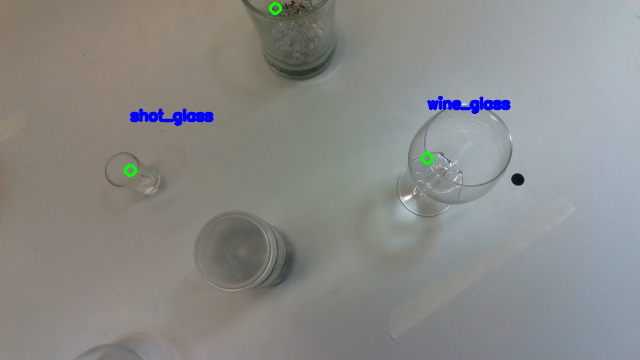
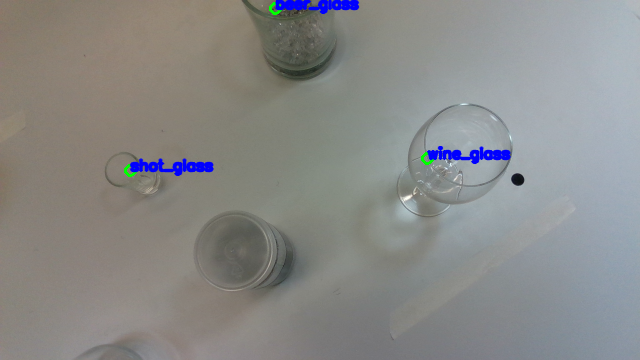
revised thresholding

diff --git a/thresholding.py b/thresholding.py
@@ -63,7 +63,7 @@ def find_rotation(a, b, c):
     return o3d.geometry.get_rotation_matrix_from_axis_angle(rotation_axis * angle)
 
 
-def threshold_blobs(outlier_cloud):
+def threshold_blobs(outlier_cloud, a, b, c, d):
     labels = np.array(outlier_cloud.cluster_dbscan(eps=0.02, min_points=1000, print_progress=True))
 
     # Number of clusters
@@ -99,18 +99,18 @@ def threshold_blobs(outlier_cloud):
     return labels, blob_heights
 
 
-def pixel_coordinates(outlier_cloud, blob_heights, known_heights, known_names):
-    K = np.array([[FX, 0, CX],
+def pixel_coordinates(outlier_cloud, labels, blob_heights, r):
+    k = np.array([[FX, 0, CX],
               [0, FY, CY],
               [0,  0,  1]])
 
-    R_inv = np.linalg.inv(r)
+    r_inv = np.linalg.inv(r)
     coordinates = []
 
     for i, height in blob_heights:
         height = height * 100
         index = -1
-        for j, known_height in enumerate(known_heights):
+        for j, known_height in enumerate(KNOWN_HEIGHTS):
             if height > known_height - 1.3 and height < known_height + 1.3:
                 index = j
                 break
@@ -126,20 +126,20 @@ def pixel_coordinates(outlier_cloud, blob_heights, known_heights, known_names):
         
         # Calculate the centroid of the blob (center of gravity)
         centroid = np.mean(cluster_points, axis=0)
-        original_centroid = np.dot(R_inv, centroid)
+        original_centroid = np.dot(r_inv, centroid)
         
         # Extract the 3D coordinates of the original centroid (X, Y, Z)
-        X, Y, Z = original_centroid
+        x, y, z = original_centroid
         
         # Project the 3D centroid to 2D pixel coordinates using the intrinsic matrix
-        u = (K[0, 0] * X / Z) + K[0, 2]
-        v = (K[1, 1] * Y / Z) + K[1, 2]
+        u = (k[0, 0] * x / z) + k[0, 2]
+        v = (k[1, 1] * y / z) + k[1, 2]
         
         # Store the pixel coordinates (u, v) and the corresponding 3D centroid
         coordinates.append((int(u), int(v)-50, index))
 
     for i, (u, v, index) in enumerate(coordinates):
-        print(f"Blob {i}: Pixel coordinates: ({u}, {v}), Name: {known_names[index]}")
+        print(f"Blob {i}: Pixel coordinates: ({u}, {v}), Name: {KNOWN_NAMES[index]}")
 
     return np.array(coordinates)
 
@@ -148,11 +148,9 @@ def mark_classes(coords, rgb_image, known_names):
     # Iterate through the list of pixel coordinates (u, v) and draw circles on the image
     for i, (u, v, index) in enumerate(coords):
         # Draw a circle on the RGB image at (u, v)
-        # Parameters: image, center_coordinates, radius, color (BGR format), thickness
         cv2.circle(rgb_image, (u, v), radius=5, color=(0, 255, 0), thickness=2)  # Green circles with radius 5
         cv2.putText(rgb_image, known_names[index], (u, v), cv2.FONT_HERSHEY_SIMPLEX, 0.5, (255, 0, 0), 2, cv2.LINE_AA, False)
 
-    # Save the modified image to a file (replace 'output_image_path' with your desired output path)
     cv2.imwrite('work_dirs/modified_rgb_image.png', rgb_image)
 
 
@@ -177,7 +175,7 @@ def show_masks(image, masks, scores, borders=True):
     mask_image = None
     for i, (mask, score) in enumerate(zip(masks, scores)):
         plt.figure(figsize=(10, 10))
-        # plt.imshow(image)
+        plt.imshow(image)
         mask_image = show_mask(mask, plt.gca(), borders=borders)
         if len(scores) > 1:
             plt.title(f"Mask {i+1}, Score: {score:.3f}", fontsize=18)
@@ -217,6 +215,22 @@ def binary_mask_to_rle(binary_mask):
     return rle
 
 
+def binary_mask_to_polygon(binary_mask):
+    # Ensure the mask is uint8 (required for findContours)
+    binary_mask = binary_mask.astype(np.uint8)
+    # Find contours in the mask (external contours only)
+    contours, _ = cv2.findContours(binary_mask, cv2.RETR_EXTERNAL, cv2.CHAIN_APPROX_SIMPLE)
+
+    polygons = []
+    for contour in contours:
+        # Flatten the contour array and convert it to a list of x, y coordinates
+        contour = contour.flatten().tolist()
+        if len(contour) >= 6:  # Minimum 3 points (6 values) to form a polygon
+            polygons.append(contour)
+
+    return polygons
+
+
 def process_dataset():
     # Initialize COCO JSON structure
     coco_json = {
@@ -230,13 +244,11 @@ def process_dataset():
 
     for image_id, (rgb_image_path, depth_image_path) in enumerate(zip(RGB_PATHS, DEPTH_PATHS)):
         # Load RGB and depth images
-
         rgb_image = Image.open(rgb_image_path)
         rgb_image = np.array(rgb_image)
         rgb_image = cv2.resize(rgb_image, (640, 360)) 
         cv2.imwrite("work_dirs/rgb.png", rgb_image)
 
-        depth_image = cv2.imread(depth_image_path, cv2.IMREAD_UNCHANGED)  # Ensure depth is loaded properly
         depth_array = np.load(depth_image_path)
         depth_normalized = (depth_array-np.min(depth_array))/(np.max(depth_array)-np.min(depth_array))
         cv2.imwrite("work_dirs/depth.png", depth_normalized * 255)
@@ -264,12 +276,12 @@ def process_dataset():
         inlier_cloud.paint_uniform_color([0, 0, 1]) 
 
         outlier_cloud = pcd.select_by_index(inliers, invert=True)
-        labels, blob_heights = threshold_blobs(outlier_cloud)
+        labels, blob_heights = threshold_blobs(outlier_cloud, a, b, c, d)
 
         axis_gizmo = o3d.geometry.TriangleMesh.create_coordinate_frame(size=0.1, origin=[0, 0, 0])
         o3d.visualization.draw_geometries([inlier_cloud, outlier_cloud, axis_gizmo])
 
-        coords = pixel_coordinates(outlier_cloud, blob_heights, KNOWN_HEIGHTS, KNOWN_NAMES)
+        coords = pixel_coordinates(outlier_cloud, labels, blob_heights, r)
         all_masks = segmentation_masks(rgb_image, coords)
 
         for mask_id, mask in enumerate(all_masks):
@@ -277,8 +289,9 @@ def process_dataset():
             # Create bounding box from mask
             x, y, w, h = cv2.boundingRect(mask.astype(np.uint8))
 
-            # Convert mask to RLE format for COCO
+            # Convert mask to format for COCO
             rle_mask = binary_mask_to_rle(mask)
+            polygons = binary_mask_to_polygon(mask)
 
             # Add annotation data for the object
             coco_json["annotations"].append({
@@ -286,7 +299,7 @@ def process_dataset():
                 "image_id": image_id,
                 "category_id": int(coords[mask_id][2] + 1),  # Assuming single category, you can extend for multiple categories
                 "bbox": [x, y, w, h],
-                "segmentation": rle_mask,
+                "segmentation": polygons,
                 "area": int(np.sum(mask)),  # Area is the number of pixels in the mask
                 "iscrowd": 0
             })
